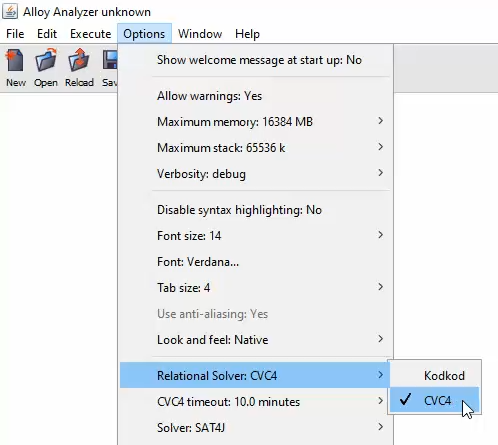
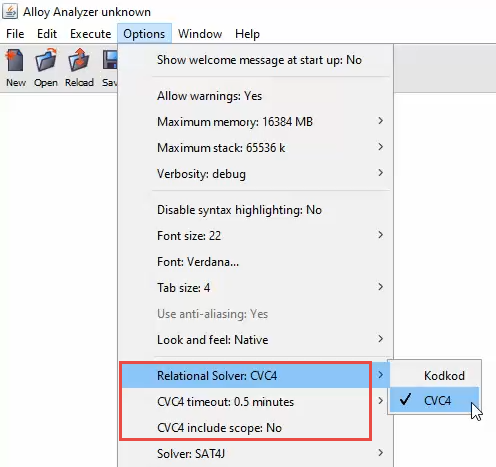
updated guidelines

Changed region(s): [[0.0, 0.0, 1.0, 1.0], [0.3024, 0.1753, 0.6351, 0.409]]

diff --git a/bin/guidelines.md b/bin/guidelines.md
@@ -12,9 +12,21 @@ chmod +x cvc4_linux
 java -jar alloy_cvc4.jar     
 ```
 # CVC4 options 
-The relational solver CVC4 can be chosen from the the options menu. CVC4 timeout can also be set there.  
 
 ![Dependency graph](doc/options.png)
+
+The *relational solver* CVC4 can be chosen from the the options menu. *CVC4 timeout* can also be set there (default is 0.5 minutes).  *CVC4 include scope* specifies whether to translate or ignore the scope constraints in all commands. The default is to ignore the scope which is faster. For the following example, cvc4 relational solver returns the empty set for signature A when scope is ignored. 
+
+```cmd
+sig A {}
+run {} for exactly 3 A
+```
+Scope constraints can be written as cardinality constraints in which case cvc4 relational solver returns the intended result. 
+
+```cmd
+sig A {}
+run {#A = 3} 
+```
 
 # Integer signatures 
 ## Semantics of functions plus, minus, mul, div, rem
